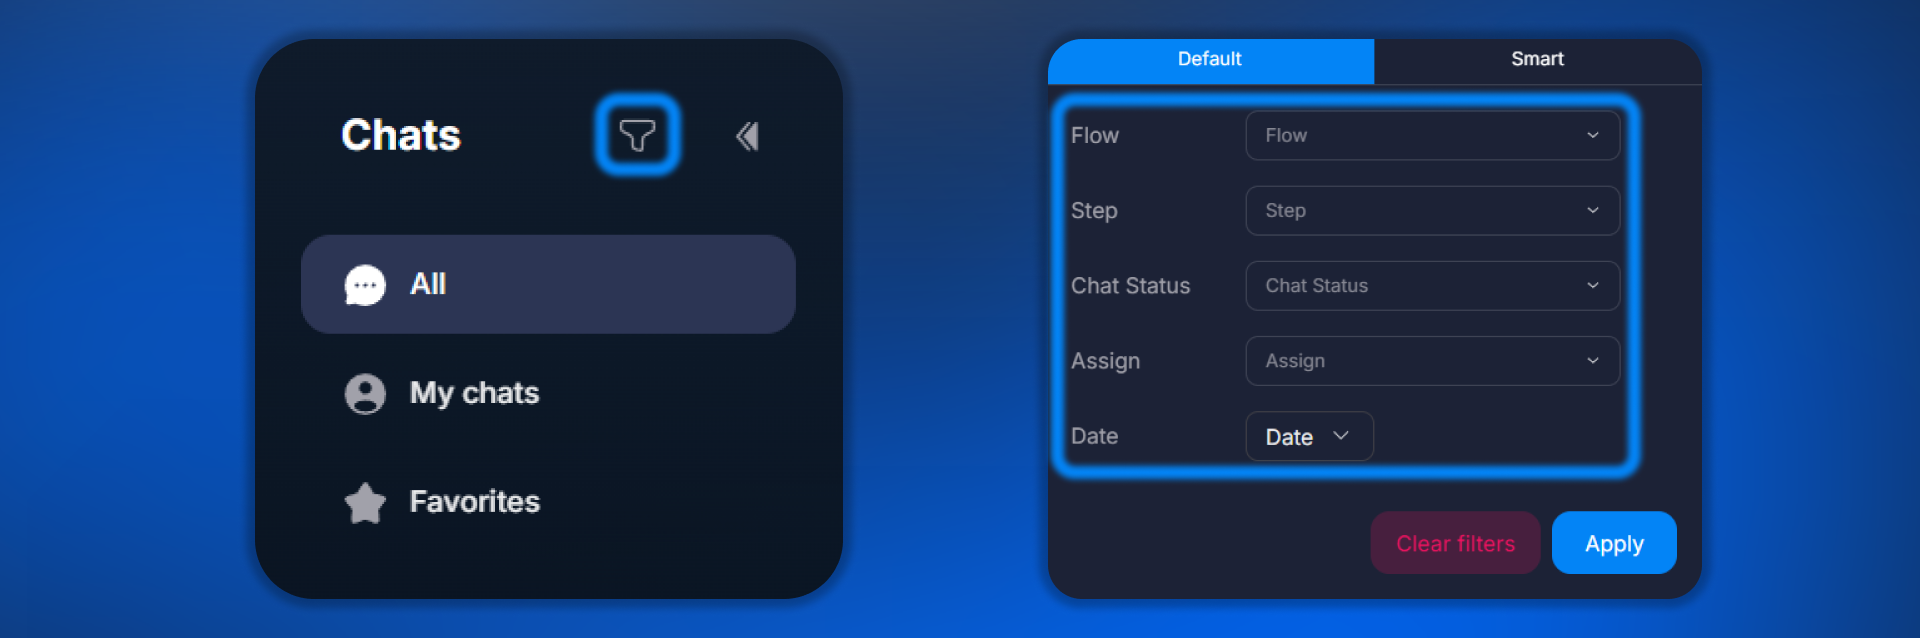
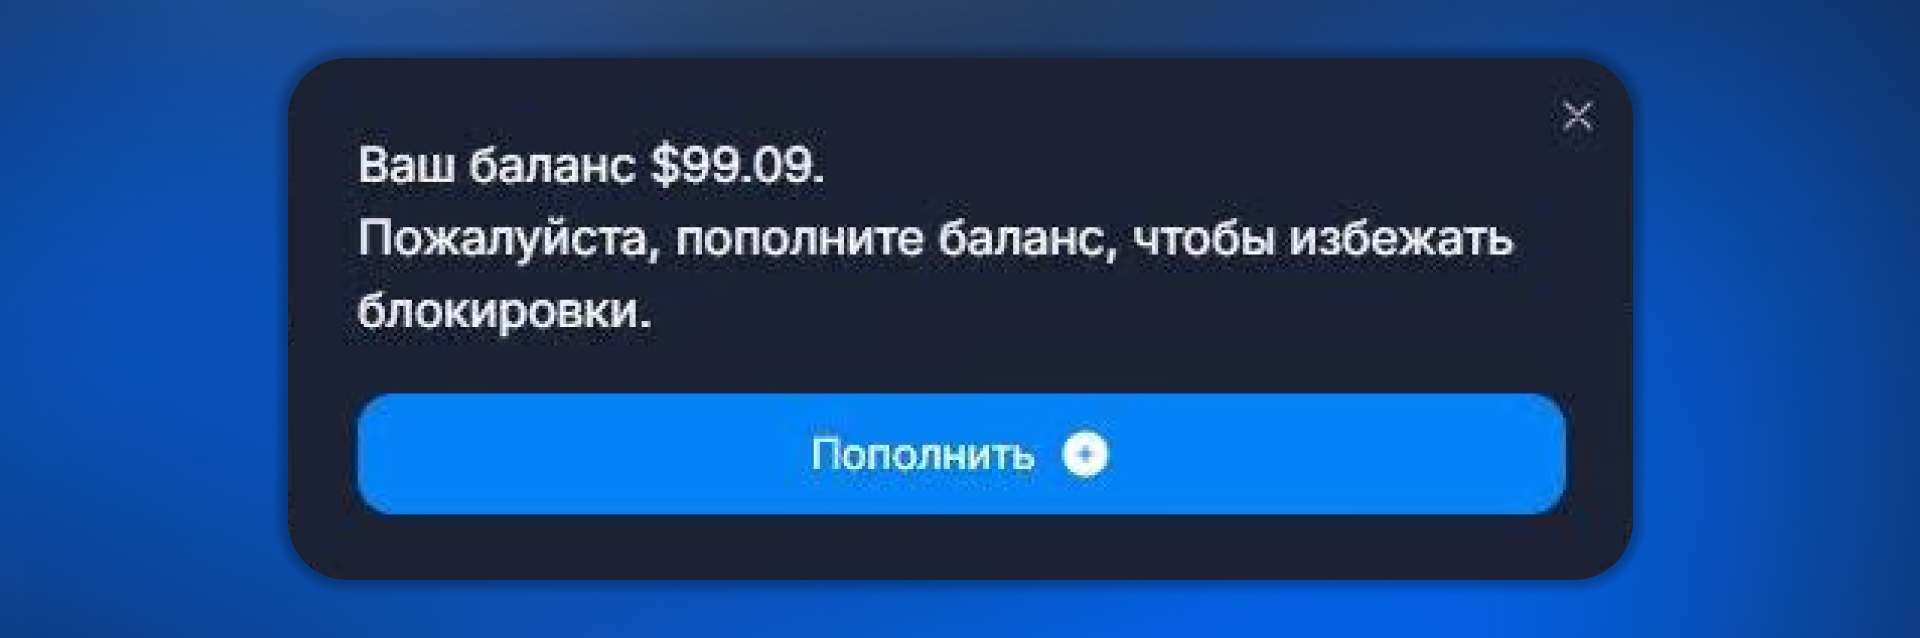
GITBOOK-404: No subject

diff --git a/SUMMARY.md b/SUMMARY.md
@@ -161,9 +161,14 @@
 ## FAQ и решение проблем
 
 * [Типы ошибок](faq-i-reshenie-problem/tipy-oshibok/README.md)
+  * [Ошибка: fbclid is empty в логах источников](faq-i-reshenie-problem/tipy-oshibok/oshibka-fbclid-is-empty-v-logakh-istochnikov.md)
+  * [Ошибка: Post "https://graph.facebook.com/ ..." в логах источников](faq-i-reshenie-problem/tipy-oshibok/oshibka-post-https-graph.facebook.com-...-v-logakh-istochnikov.md)
   * [Ошибка 400](faq-i-reshenie-problem/tipy-oshibok/oshibka-400.md)
   * [Ошибка 403](faq-i-reshenie-problem/tipy-oshibok/oshibka-403.md)
 * [Частые вопросы](faq-i-reshenie-problem/chastye-voprosy/README.md)
+  * [Бот перестал принимать заявки в канал — в чём причина?](faq-i-reshenie-problem/chastye-voprosy/bot-perestal-prinimat-zayavki-v-kanal-v-chyom-prichina.md)
+  * [Обязательно ли держать баланс выше $100?](faq-i-reshenie-problem/chastye-voprosy/obyazatelno-li-derzhat-balans-vyshe-usd100.md)
+  * [AI долго отвечает / медленно работает](faq-i-reshenie-problem/chastye-voprosy/ai-dolgo-otvechaet-medlenno-rabotaet.md)
   * [Не видит канал при создании кампании с типом залива "На канал", как исправить ?](faq-i-reshenie-problem/chastye-voprosy/ne-vidit-kanal-pri-sozdanii-kampanii-s-tipom-zaliva-na-kanal-kak-ispravit.md)
   * [Сделал импорт флоу, поменял часть шагов, но бот все равно ведет по старой воронке](faq-i-reshenie-problem/chastye-voprosy/sdelal-import-flou-pomenyal-chast-shagov-no-bot-vse-ravno-vedet-po-staroi-voronke.md)
   * [Почему ИИ не пропускает если лид дал ответ](faq-i-reshenie-problem/chastye-voprosy/pochemu-ii-ne-propuskaet-esli-lid-dal-otvet.md)

diff --git a/faq-i-reshenie-problem/chastye-voprosy/obyazatelno-li-derzhat-balans-vyshe-usd100.md b/faq-i-reshenie-problem/chastye-voprosy/obyazatelno-li-derzhat-balans-vyshe-usd100.md
@@ -1,0 +1,20 @@
+# Обязательно ли держать баланс выше $100?
+
+
+
+{% hint style="info" %}
+*
+
+    <div data-with-frame="true"><figure><img src="../../.gitbook/assets/Frame 2223.png" alt=""><figcaption></figcaption></figure></div>
+
+
+
+Это уведомление означает, что баланс вашей компании опустился ниже $100.
+
+Оно носит информативный характер и напоминает о необходимости следить за балансом, чтобы он не стал отрицательным.
+
+Вы можете закрыть уведомление и продолжить пользоваться платформой без ограничений.\
+\
+После пополнения баланса компании необходимо подождать около 10-20 минут. После этого уведомление автоматически пропадёт, и Вы сможете продолжить пользоваться платформой
+{% endhint %}
+

diff --git a/faq-i-reshenie-problem/chastye-voprosy/bot-perestal-prinimat-zayavki-v-kanal-v-chyom-prichina.md b/faq-i-reshenie-problem/chastye-voprosy/bot-perestal-prinimat-zayavki-v-kanal-v-chyom-prichina.md
@@ -1,0 +1,9 @@
+# Бот перестал принимать заявки в канал — в чём причина?
+
+{% hint style="info" %}
+Чаще всего это происходит из-за того, что пользователи переходят по ссылкам, которые не привязаны к кампании.
+
+В таком случае такие лиды считаются органическим трафиком.
+
+Бот обрабатывает заявки в канал только от пользователей, которые переходят по ссылкам, созданным внутри кампании.
+{% endhint %}

diff --git a/faq-i-reshenie-problem/chastye-voprosy/ai-dolgo-otvechaet-medlenno-rabotaet.md b/faq-i-reshenie-problem/chastye-voprosy/ai-dolgo-otvechaet-medlenno-rabotaet.md
@@ -1,0 +1,12 @@
+# AI долго отвечает / медленно работает
+
+{% hint style="info" %}
+В разделе **Bot Settings** есть вкладка **Delays** — она предназначена для управления задержками в ответах бота.
+
+Проверьте настройки в этом разделе: возможно, установлены дополнительные задержки, которые замедляют ответы AI.
+
+*
+
+    <div data-with-frame="true"><figure><img src="../../.gitbook/assets/Frame 1437256014.png" alt=""><figcaption></figcaption></figure></div>
+{% endhint %}
+

diff --git a/faq-i-reshenie-problem/chastye-voprosy/ne-vidit-kanal-pri-sozdanii-kampanii-s-tipom-zaliva-na-kanal-kak-ispravit.md b/faq-i-reshenie-problem/chastye-voprosy/ne-vidit-kanal-pri-sozdanii-kampanii-s-tipom-zaliva-na-kanal-kak-ispravit.md
@@ -7,7 +7,9 @@
 
 Если ничего из этого нет, удалите бота из канала и добавьте его заново с правами администратора
 
-<img src="../../.gitbook/assets/ezgif-77d8dab17b663f14 (1).gif" alt="Права администратора для бота" data-size="original">
+*
+
+    <div data-with-frame="true"><figure><img src="../../.gitbook/assets/ezgif-77d8dab17b663f14 (1).gif" alt=""><figcaption></figcaption></figure></div>
 {% endhint %}
 
 <a href="./" class="button secondary">Частые вопросы</a>

diff --git a/faq-i-reshenie-problem/tipy-oshibok/oshibka-post-https-graph.facebook.com-...-v-logakh-istochnikov.md b/faq-i-reshenie-problem/tipy-oshibok/oshibka-post-https-graph.facebook.com-...-v-logakh-istochnikov.md
@@ -1,0 +1,11 @@
+# Ошибка: Post "https://graph.facebook.com/ ..." в логах источников
+
+{% hint style="info" %}
+Чаще всего эта ошибка связана с некорректной работой прокси или его отсутствием.
+
+Рекомендуется:
+
+* проверить, работает ли прокси корректно
+* при необходимости заменить его на другой
+{% endhint %}
+

diff --git a/faq-i-reshenie-problem/tipy-oshibok/oshibka-fbclid-is-empty-v-logakh-istochnikov.md b/faq-i-reshenie-problem/tipy-oshibok/oshibka-fbclid-is-empty-v-logakh-istochnikov.md
@@ -1,0 +1,8 @@
+# Ошибка: fbclid is empty в логах источников
+
+{% hint style="info" %}
+Чаще всего эта ошибка возникает из-за некорректного тестирования кампании.
+
+Для корректной проверки используйте раздел **Test**, который находится в настройках кампании.
+{% endhint %}
+

diff --git a/get-started/konstruktor-flow-settings/tipy-shagov/terms/condition.md b/get-started/konstruktor-flow-settings/tipy-shagov/terms/condition.md
@@ -33,7 +33,7 @@ icon: chart-simple-horizontal
 
 *
 
-    <div data-with-frame="true"><figure><img src="../../../../.gitbook/assets/image (1).png" alt=""><figcaption></figcaption></figure></div>
+    <div data-with-frame="true"><figure><img src="../../../../.gitbook/assets/image (1) (1).png" alt=""><figcaption></figcaption></figure></div>
 {% endhint %}
 
 
